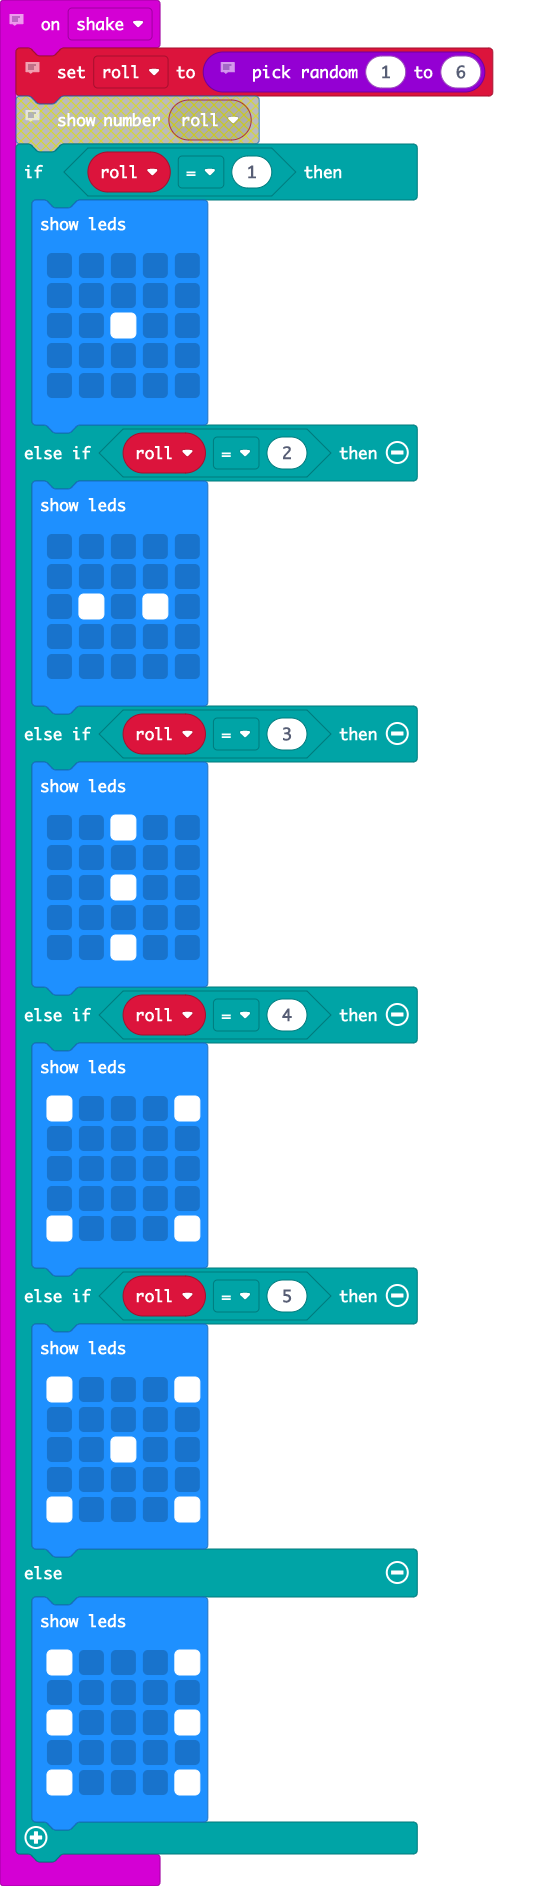
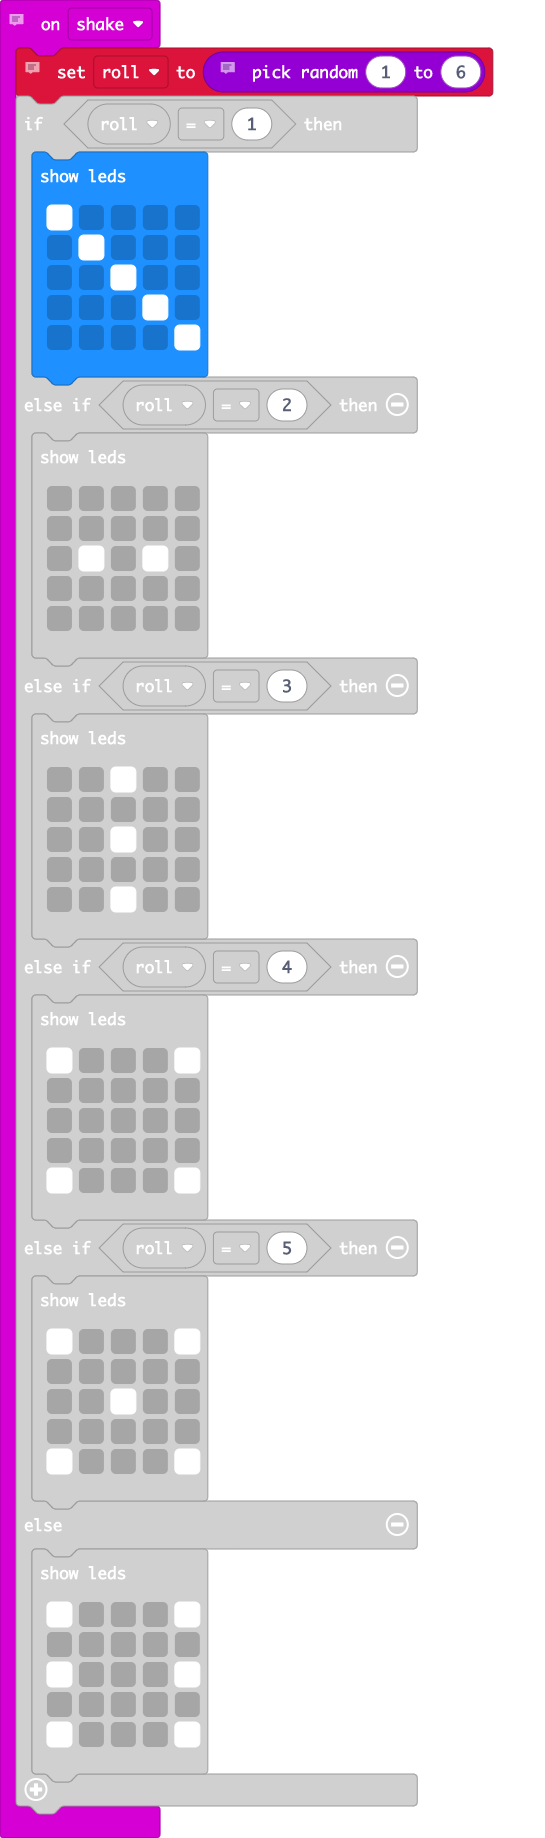
made a small change

diff --git a/main.ts b/main.ts
@@ -5,11 +5,11 @@ input.onGesture(Gesture.Shake, function () {
     roll = randint(1, 6)
     if (roll == 1) {
         basic.showLeds(`
-            . . . . .
-            . . . . .
+            # . . . .
+            . # . . .
             . . # . .
-            . . . . .
-            . . . . .
+            . . . # .
+            . . . . #
             `)
     } else if (roll == 2) {
         basic.showLeds(`
